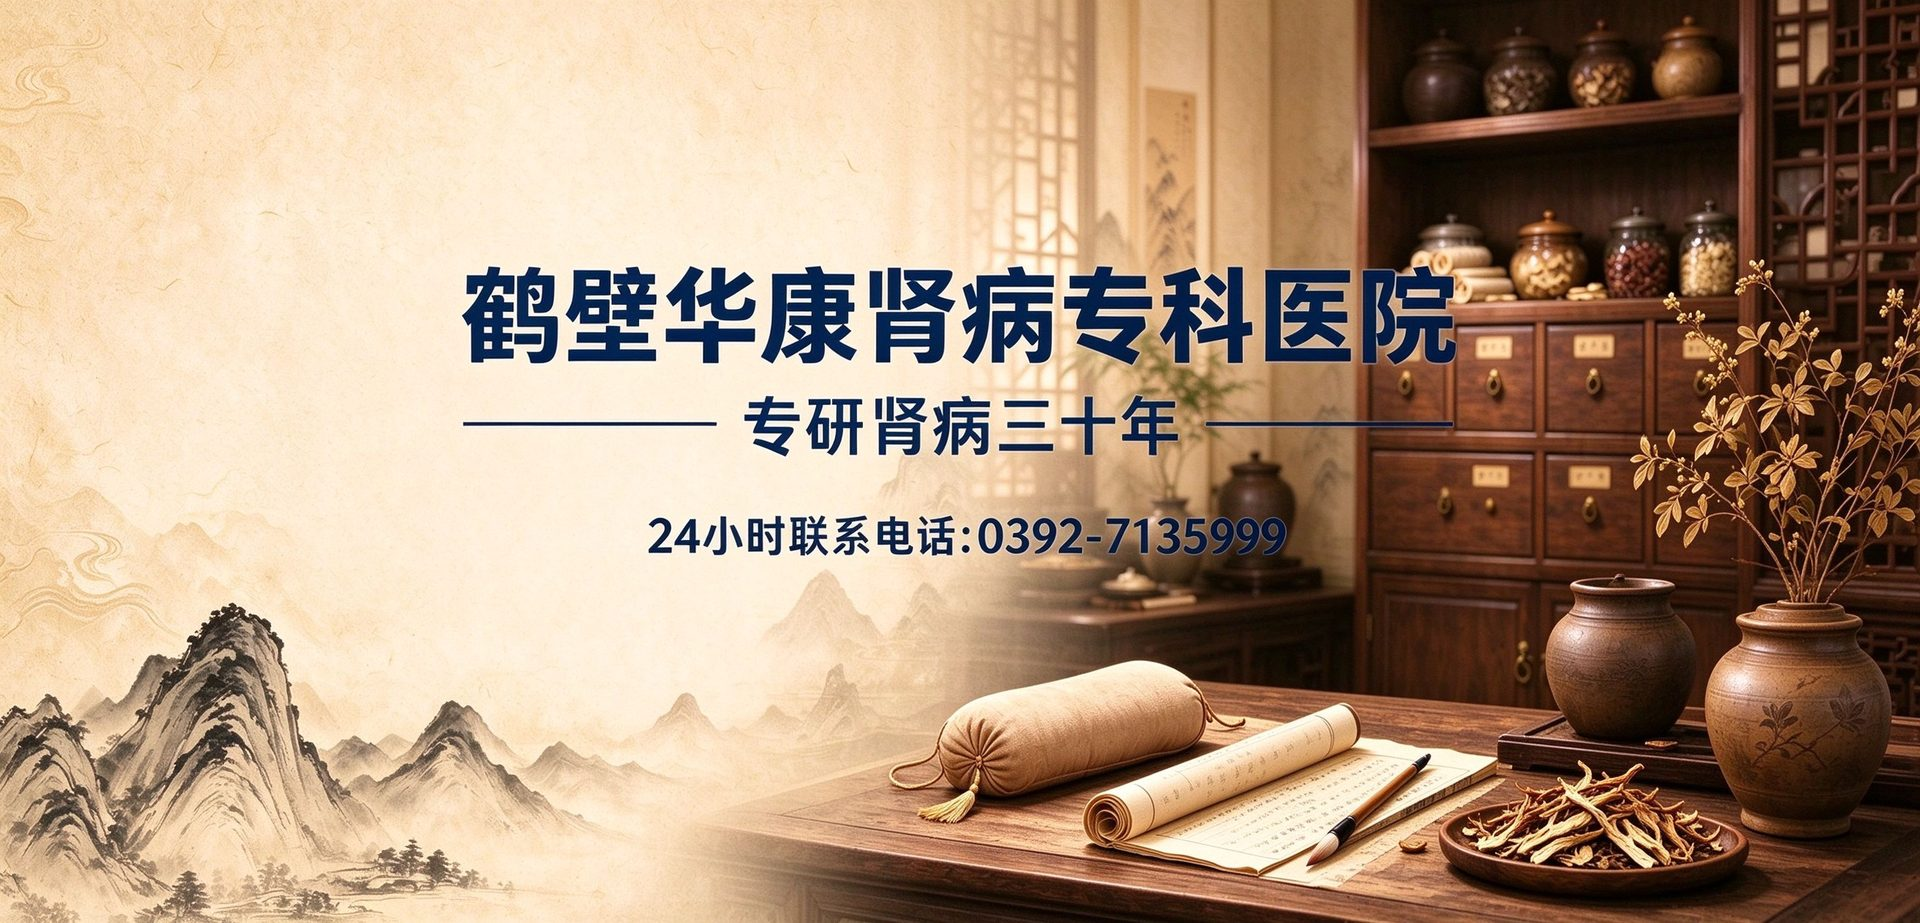
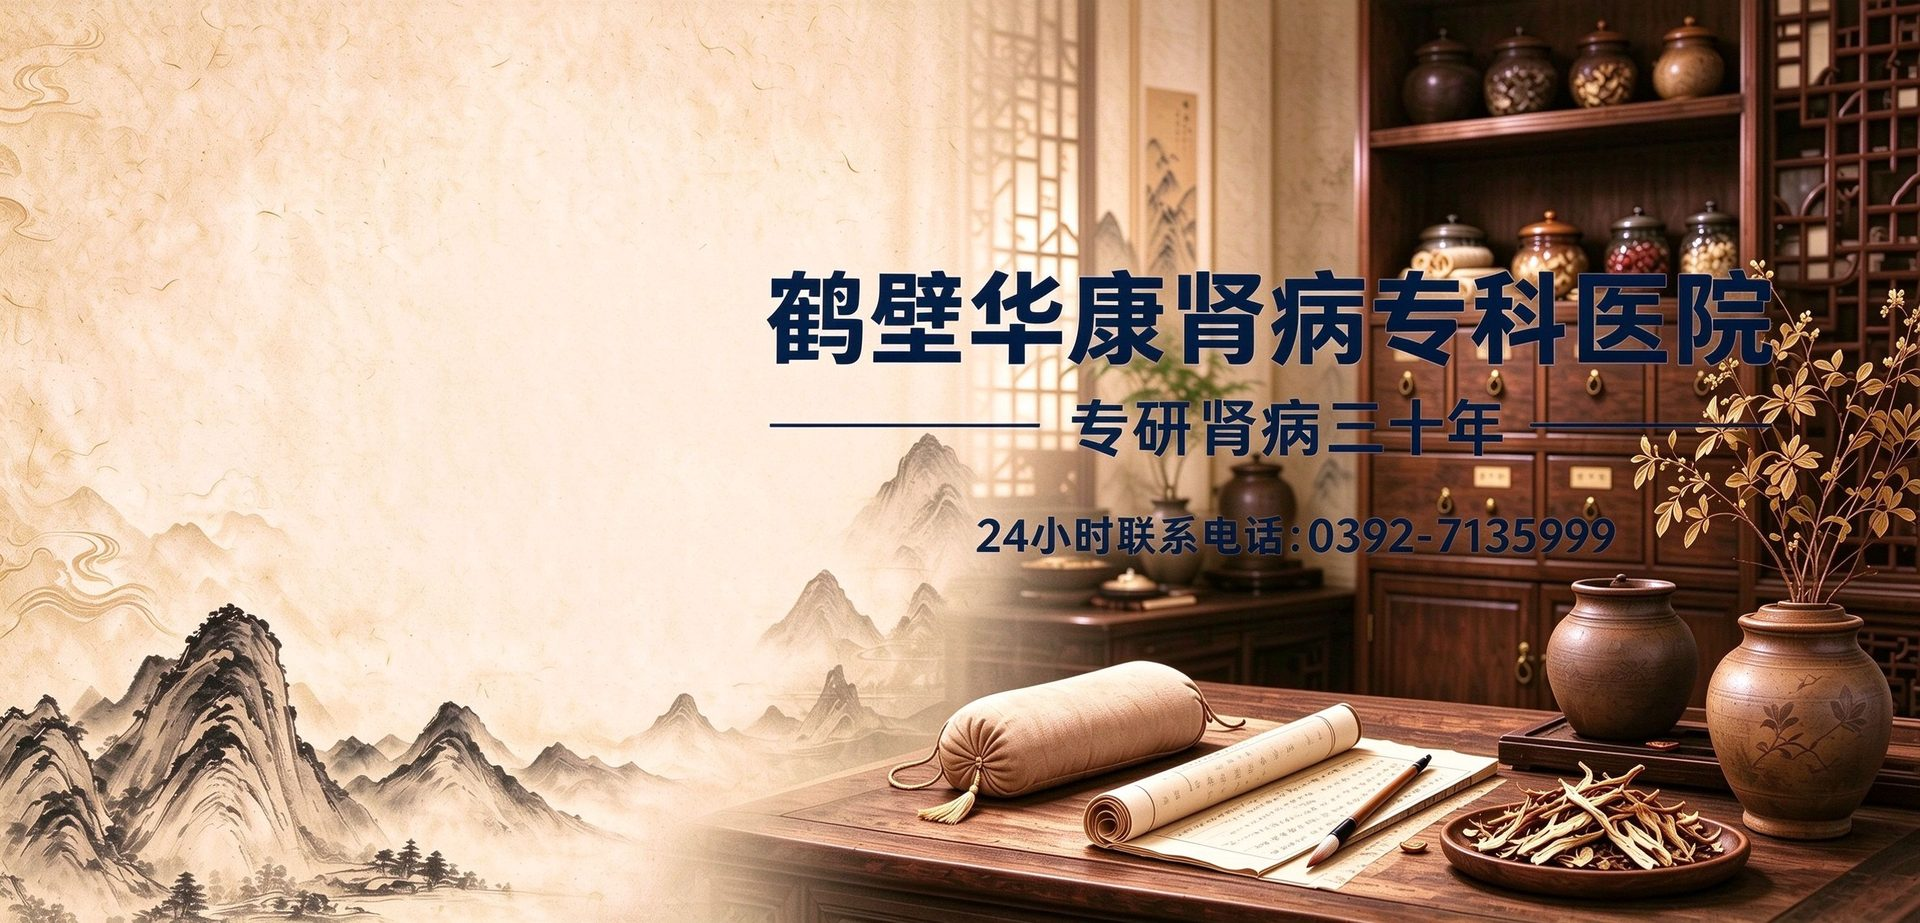
图标恢复左侧原位；轮播文字右置避开图标

diff --git a/index.html b/index.html
@@ -229,22 +229,22 @@ a.float-btn {
     z-index: 1;
 }
 
-/* 功能卡片组：悬浮在轮播图右上角，避开居中文字 */
+/* 功能卡片组：悬浮在轮播图左侧（原位置） */
 .card-group {
     position: absolute;
-    top: 60px;
-    right: 30px;
+    top: 110px;
+    left: 80px;
     display: grid;
     grid-template-columns: repeat(2, 1fr);
-    gap: 12px;
+    gap: 18px;
     z-index: 3;
 }
 
 .card-green,
 .card-beige,
 .card-trans {
-    width: 108px;
-    height: 108px;
+    width: 150px;
+    height: 160px;
     display: flex;
     flex-direction: column;
     align-items: center;
